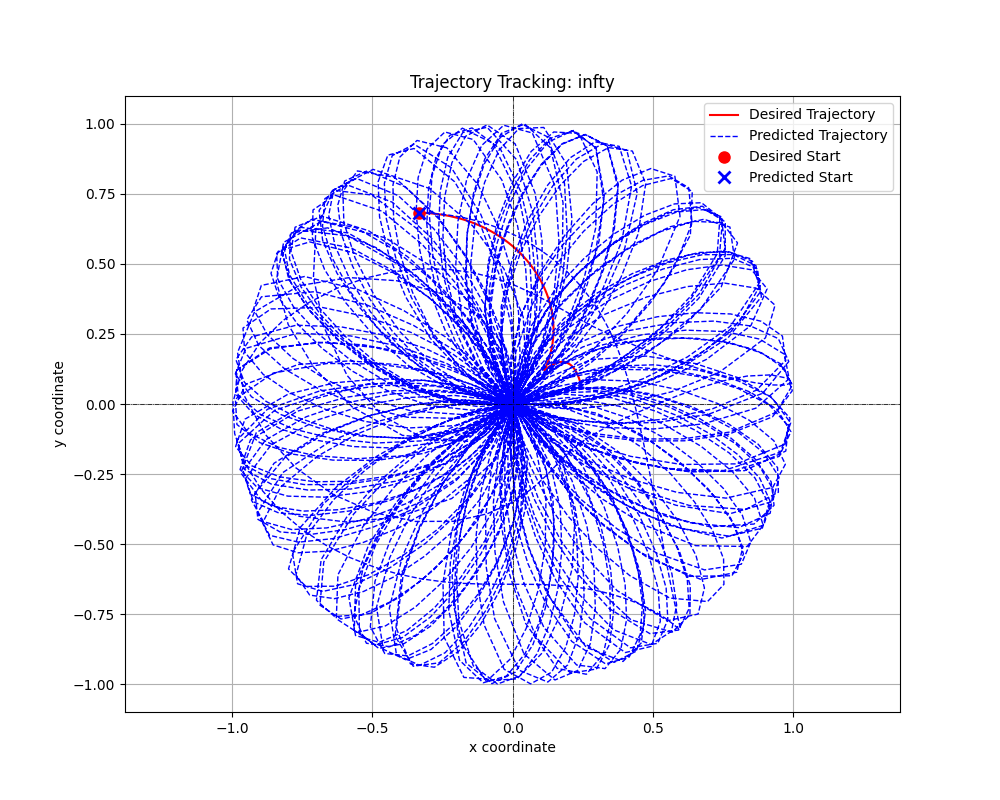
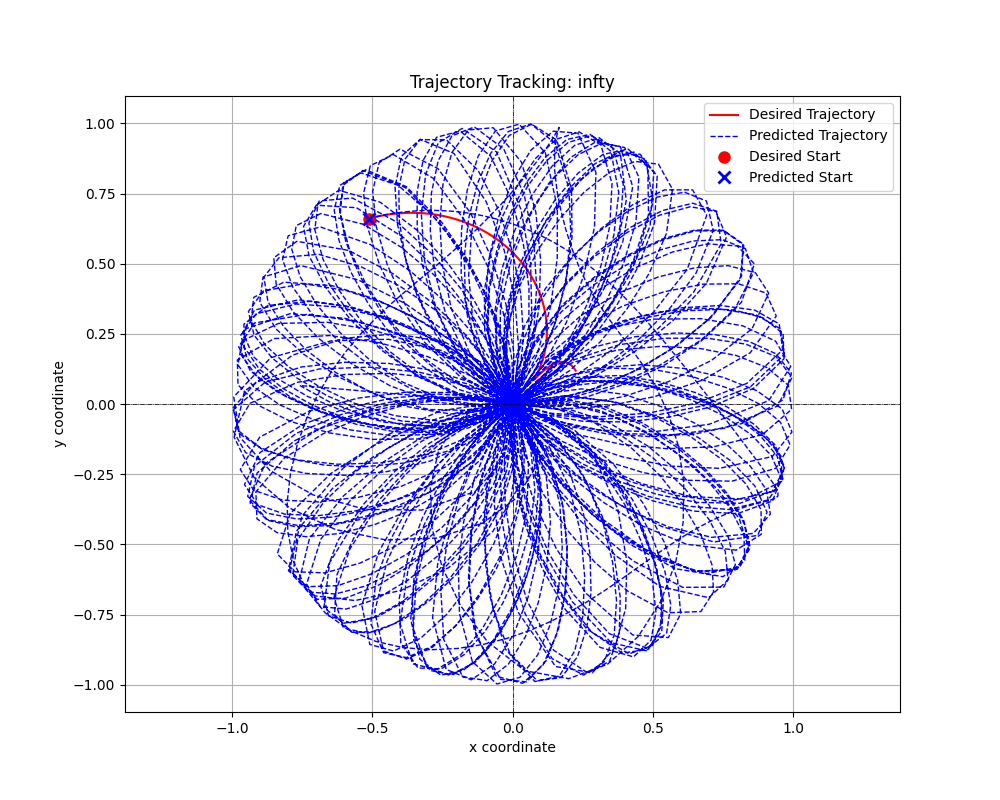
Align Python reservoir validation with MATLAB training
This commit addresses discrepancies between the Python and MATLAB reservoir computing implementations, improving the Python version's ability to reproduce MATLAB's tracking control plot results.

The primary changes include:
1. Modified the construction of the input vector `u` in `reservoir_validation.py` to use only desired trajectory data (current and next step values for xy and qdt). This aligns with the input structure used during the MATLAB training phase (`func_reservoir_train.m`). Previously, the Python validation used a mix of actual (predicted) and desired states.

2. Adjusted the simulation loop range in `reservoir_validation.py` (to `val_length - 3` iterations) to match the number of iterations performed in the MATLAB validation script (`func_reservoir_validate.m`).

3. Added temporary diagnostic prints to `main_python.py` to better inspect the variables loaded from the .mat file, confirming `input_infor` and `dim_in` were consistent with expectations.

These changes have resulted in improved plot agreement with the MATLAB reference.

Changed region(s): [[0.217, 0.1562, 0.806, 0.875]]

diff --git a/reservoir_validation.py b/reservoir_validation.py
@@ -74,43 +74,47 @@ def run_reservoir_validation(desired_traj_data, model_params, robot_properties, 
 
 
     # --- Main Simulation Loop ---
-    # Loop from t_i = 0 to val_length - 2 to predict states for t_i + 1
-    # This means q_pred, qdt_pred, etc. will be filled up to index val_length - 1
-    for t_i in range(val_length - 1):
+    # Loop from t_i = 0 to val_length - 4 to predict states for t_i + 1, ..., t_i + 3
+    # Consistent with MATLAB's for t_i = 1:val_length-3 (0-indexed: 0 to val_length-4)
+    # This means q_pred, qdt_pred, etc. will be filled up to index val_length - 3
+    for t_i in range(val_length - 3):
         # 1. Construct u (input to reservoir)
         # This depends on input_infor_setup (e.g., ['xy', 'qdt'])
-        # u uses current predicted state and next desired state.
-
-        current_actual_cart_x = data_pred_cartesian[t_i, 0]
-        current_actual_cart_y = data_pred_cartesian[t_i, 1]
-        current_actual_qdt1 = qdt_pred[t_i, 0]
-        current_actual_qdt2 = qdt_pred[t_i, 1]
+        # Aligning with MATLAB training: u = [current_desired_xy, next_desired_xy, current_desired_qdt, next_desired_qdt]
 
         # Index for "next desired state" from control trajectory
-        # MATLAB's time_now+2 (1-based) becomes t_i+1 for 0-based current step t_i,
-        # if "next" means one step ahead of current control target.
-        # Or if it means two steps ahead of current physical step t_i.
-        # The MATLAB code for u: u(3:4)=data_control(time_now+2,:); u(7:8)=qdt_control(time_now+2,:);
-        # If time_now is the current physical step, then time_now+2 is two steps ahead.
-        # Let's use t_i + 1 as the "next" lookahead for desired states.
         idx_desired_next = min(t_i + 1, val_length - 1)
 
         u_list = []
         # The exact construction of 'u' must match how the reservoir was trained.
-        # Assuming typical setup based on provided snippet:
-        # [current_actual_xy, next_desired_xy, current_actual_qdt, next_desired_qdt]
-        if 'xy' in input_infor_setup and 'qdt' in input_infor_setup: # Common case
-            u_list.extend([current_actual_cart_x, current_actual_cart_y])
+        # For input_infor_setup = ['xy', 'qdt'], the order is:
+        # [current_desired_x, current_desired_y, next_desired_x, next_desired_y,
+        #  current_desired_qdt1, current_desired_qdt2, next_desired_qdt1, next_desired_qdt2]
+        if input_infor_setup == ['xy', 'qdt']: # Specific check for the target setup
+            # Current desired XY
+            u_list.extend([data_control_cartesian[t_i, 0], data_control_cartesian[t_i, 1]])
+            # Next desired XY
             u_list.extend([data_control_cartesian[idx_desired_next, 0], data_control_cartesian[idx_desired_next, 1]])
-            u_list.extend([current_actual_qdt1, current_actual_qdt2])
+            # Current desired qdt
+            u_list.extend([qdt_control[t_i, 0], qdt_control[t_i, 1]])
+            # Next desired qdt
             u_list.extend([qdt_control[idx_desired_next, 0], qdt_control[idx_desired_next, 1]])
         # Add more conditions here if input_infor_setup can vary more
+        # For example, if only 'xy' is present, or only 'qdt', or other combinations.
+        # elif input_infor_setup == ['xy']:
+        #     u_list.extend([data_control_cartesian[t_i, 0], data_control_cartesian[t_i, 1]])
+        #     u_list.extend([data_control_cartesian[idx_desired_next, 0], data_control_cartesian[idx_desired_next, 1]])
+        # elif input_infor_setup == ['qdt']:
+        #     u_list.extend([qdt_control[t_i, 0], qdt_control[t_i, 1]])
+        #     u_list.extend([qdt_control[idx_desired_next, 0], qdt_control[idx_desired_next, 1]])
         else:
             # Fallback or error if u construction is not defined for input_infor_setup
-            raise NotImplementedError(f"Input vector 'u' construction not defined for input_infor_setup: {input_infor_setup}")
+            raise NotImplementedError(f"Input vector 'u' construction not defined for input_infor_setup: {input_infor_setup}. Target is ['xy', 'qdt'].")
 
         if len(u_list) != dim_in:
-            raise ValueError(f"Constructed u length {len(u_list)} does not match dim_in {dim_in}")
+            # This check is important. If dim_in is 8 for ['xy', 'qdt'], then len(u_list) must be 8.
+            # If input_infor_setup was different, dim_in might be different (e.g. 4 if only 'xy' or only 'qdt').
+            raise ValueError(f"Constructed u length {len(u_list)} does not match expected dim_in {dim_in} for input_infor_setup {input_infor_setup}")
         u = np.array(u_list).reshape(dim_in, 1)
 
         # 2. Reservoir Update

diff --git a/main_python.py b/main_python.py
@@ -23,6 +23,10 @@ def load_matlab_data(filepath):
     try:
         data = scipy.io.loadmat(filepath)
         print("Keys in the loaded .mat file:", data.keys())
+        print(f"Type of data.get('res_infor'): {type(data.get('res_infor'))}")
+        print(f"Content of data.get('res_infor'): {data.get('res_infor')}")
+        print(f"Type of data.get('input_infor'): {type(data.get('input_infor'))}")
+        print(f"Content of data.get('input_infor'): {data.get('input_infor')}")
 
         # Extract variables, handling potential KeyError if a variable is missing
         # MATLAB structs are often loaded as numpy structured arrays or dicts.
@@ -178,6 +182,10 @@ if __name__ == "__main__":
         # sys.exit("Aborting due to missing essential MAT file data.")
     else:
         print("\n--- Successfully Loaded Essential MAT File Data ---")
+        print(f"Type of res_infor_loaded: {type(res_infor_loaded)}")
+        print(f"Content of res_infor_loaded: {res_infor_loaded}")
+        print(f"Type of input_infor_loaded: {type(input_infor_loaded)}")
+        print(f"Content of input_infor_loaded: {input_infor_loaded}")
         print(f"Data dt: {dt_loaded}")
         print(f"Reservoir n: {n_loaded}")
         print(f"Input infor: {input_infor_loaded}")
@@ -272,6 +280,7 @@ if __name__ == "__main__":
                     if inferred_dim > 0: dim_in_for_model = inferred_dim
                     else: dim_in_for_model = 8 # Fallback default
                 else: dim_in_for_model = 8 # Fallback if input_infor also missing
+            print(f"Derived dim_in_for_model: {dim_in_for_model}")
             print(f"Using dim_in: {dim_in_for_model} for reservoir model.")
 
             model_params_for_val = {
